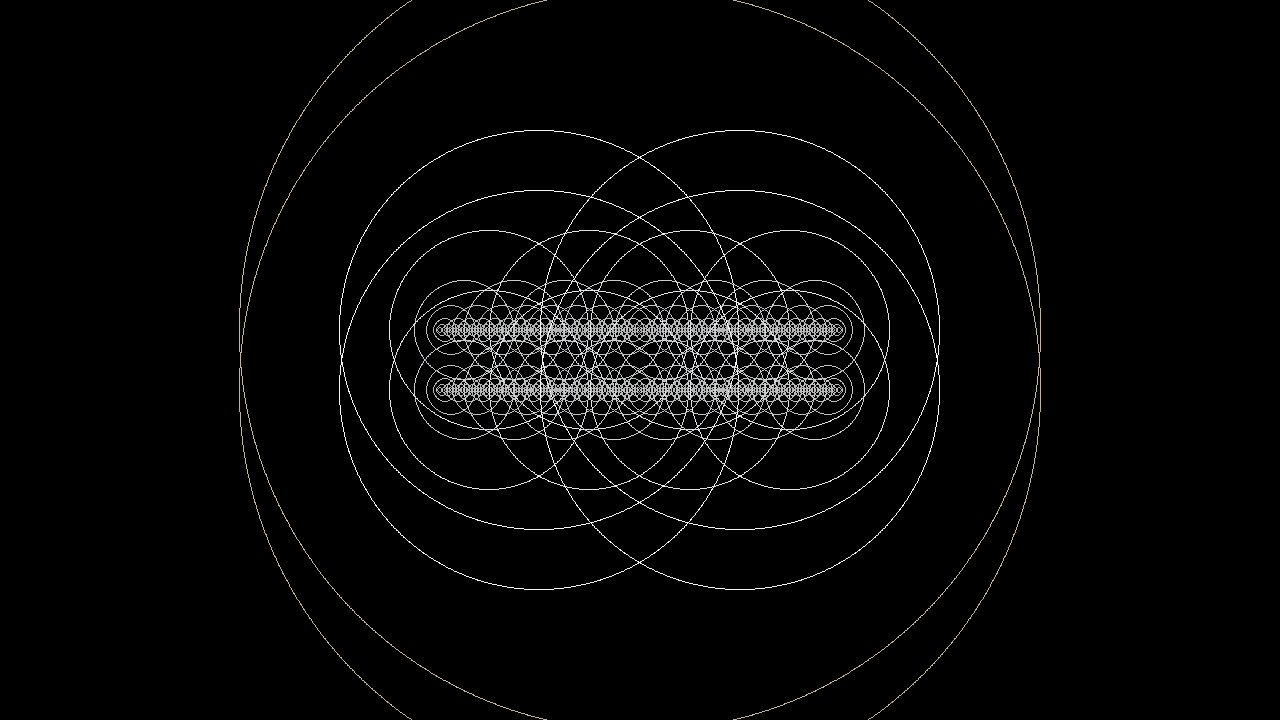
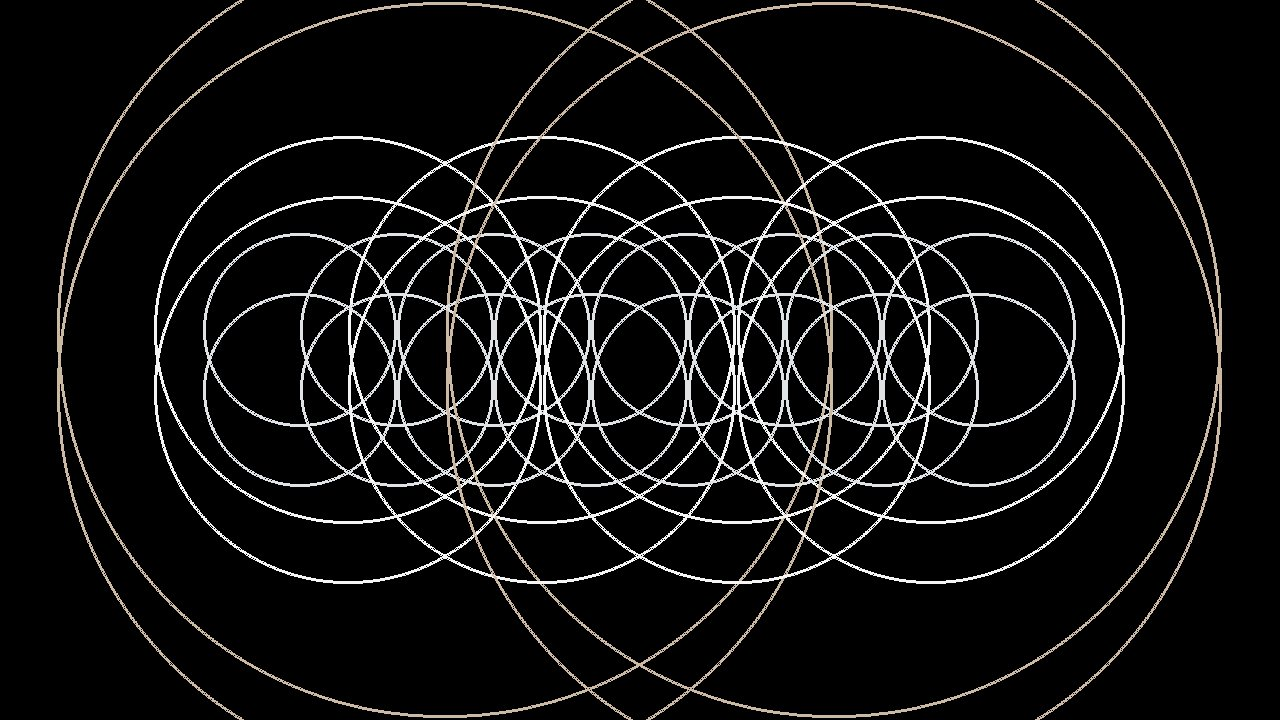
redo

diff --git a/007/circles.py b/007/circles.py
@@ -12,12 +12,12 @@ def drawCircle(screen, x, y, r, n):
              int(123 + 123 * math.sin(r * .011 + time.time())),
              int(123 + 123 * math.sin(r * .012 + time.time())))
 
-    if r > 1:
+    if r > 3:
         pygame.draw.circle(screen,
                            color,
                            (int(x), int(y)),
                            int(r * 2),
-                           1)
+                           3)
     if n > 1:
         n = n - 1
         drawCircle(screen, x - r / 2, y, r / 2, n)
@@ -28,5 +28,5 @@ counter = 0
 def draw(screen, etc):
     global counter
     counter += 1
-    drawCircle(screen, 1280 // 2, 360 - 30, 300 + 100 * math.sin(counter * .01), int(9 + 6 * math.sin(counter * .03)))
-    drawCircle(screen, 1280 // 2, 360 + 30, 300 + 100 * math.sin(counter * .01), int(9 + 6 * math.sin(counter * .03)))
+    drawCircle(screen, 1280 // 2, 360 - 30, 300 + 100 * math.sin(counter * .01), int(9 + 6 * math.sin(counter * .05)))
+    drawCircle(screen, 1280 // 2, 360 + 30, 300 + 100 * math.sin(counter * .01), int(9 + 6 * math.sin(counter * .05)))
